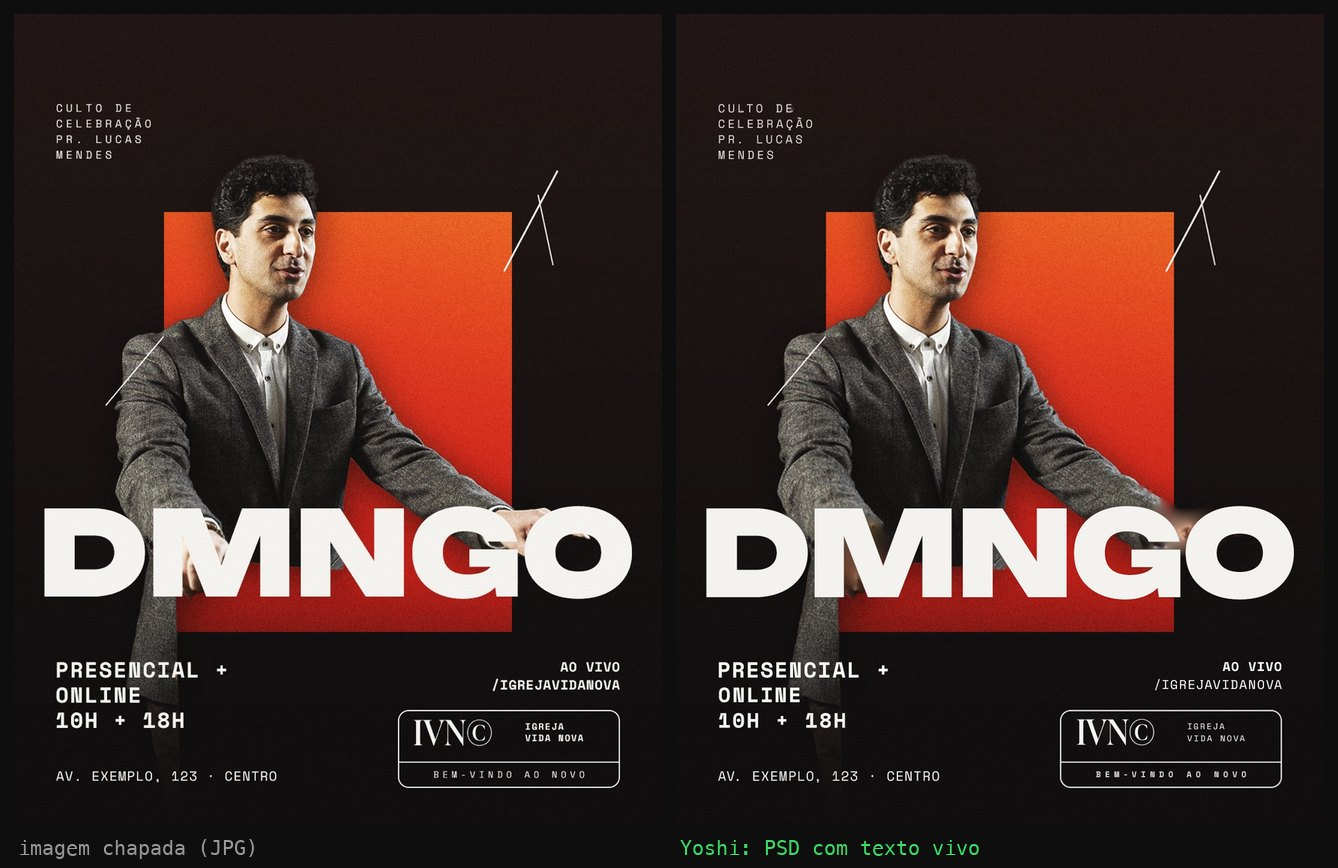
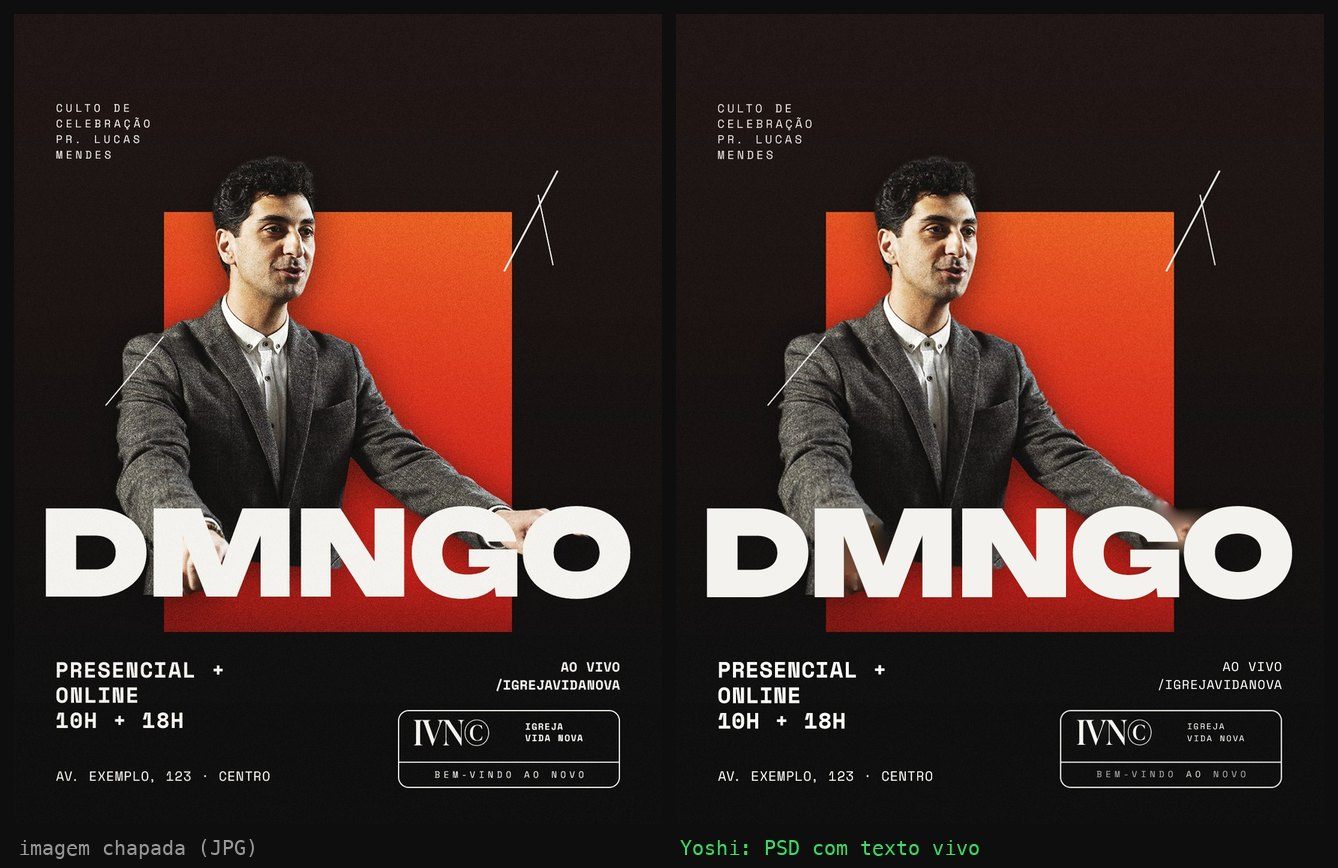
Exemplo igreja-moderna: pregador cortado abaixo das mãos (sem o paletó solto); Y.cortarAbaixo
reconstruir: junta pedaços da mesma linha separados pelo OCR ("PRESENCIAL" + "+");
previews do README refeitos com a arte corrigida.

diff --git a/scripts/jsx/yoshi.jsx b/scripts/jsx/yoshi.jsx
@@ -133,6 +133,18 @@ var Y = (function () {
   };
   // "Pessoa na frente do título": duplica a foto já recortada para outro grupo (acima do texto).
   Y.duplicarPara = function (l, nome, g) { var c = l.duplicate(); c.name = nome; return entra(c, g); };
+  // Corta seco a camada abaixo de y (na máscara): recorte de pessoa atrás de púlpito/mesa leva o resto do corpo
+  // sem o móvel e sobra um pedaço solto. Ponha y logo abaixo das mãos, de preferência escondido atrás do título.
+  Y.cortarAbaixo = function (l, y, x1, x2) {
+    var W_ = D.width.as("px"), H_ = D.height.as("px"); x1 = x1 || 0; x2 = x2 || W_;
+    D.activeLayer = l; var tem = false;
+    try { var r0 = new ActionReference(); r0.putEnumerated(s("layer"), s("ordinal"), s("targetEnum")); tem = executeActionGet(r0).getBoolean(s("hasUserMask")); } catch (e) {}
+    if (!tem) { var m = new ActionDescriptor(); m.putClass(s("new"), s("channel")); var r = new ActionReference(); r.putEnumerated(s("channel"), s("channel"), s("mask")); m.putReference(s("at"), r); m.putEnumerated(s("using"), s("userMaskEnabled"), s("revealAll")); executeAction(s("make"), m, DialogModes.NO); }
+    var a = new ActionDescriptor(), rm = new ActionReference(); rm.putEnumerated(s("channel"), s("channel"), s("mask")); a.putReference(s("null"), rm); a.putBoolean(s("makeVisible"), false); executeAction(s("select"), a, DialogModes.NO);
+    D.selection.select([[x1, y], [x2, y], [x2, H_], [x1, H_]]); D.selection.fill(rgb("#000000")); D.selection.deselect();
+    var b2 = new ActionDescriptor(), rc = new ActionReference(); rc.putEnumerated(s("channel"), s("channel"), s("RGB")); b2.putReference(s("null"), rc); executeAction(s("select"), b2, DialogModes.NO);
+    return l;
+  };
   // Esconde a parte de baixo de uma camada com máscara de degradê (para a foto "sumir" no fundo). de/ate em px de y.
   Y.sumirEmbaixo = function (l, yInicio, yFim) {
     D.activeLayer = l;

diff --git a/presets/igreja-moderna/exemplo/arte.jsx b/presets/igreja-moderna/exemplo/arte.jsx
@@ -2,6 +2,7 @@
 // Variáveis: FOTO (pessoa, de preferência meio corpo ou corpo inteiro), SAIDA (pasta).
 // python3 scripts/montar.py presets/igreja-moderna/exemplo/arte.jsx FOTO=/caminho/pastor.jpg SAIDA=/pasta
 var W = 1080, H = 1350;
+if (typeof CORTE === "undefined") var CORTE = "";
 Y.doc(W, H, "igreja-moderna-dmngo");
 
 var gFundo = Y.grupo("FUNDO");
@@ -16,6 +17,7 @@ Y.recorte(gMold.layers[0]);
 var gPes = Y.grupo("PESSOAS");
 var p = Y.colocar(FOTO, "PREGADOR", gPes, { x: 40, y: -150, w: 1000, h: 1500 }, "altura", "topo");
 Y.recortar(p);
+Y.cortarAbaixo(p, CORTE ? Number(CORTE) : 968);   // foto atrás de púlpito: o recorte deixava o paletó solto à esquerda; corta abaixo das mãos, atrás do título
 Y.efeitos(p, { sombra: { cor: "#000000", op: 55, dist: 0, desfoque: 70 } });
 
 var gDeg = Y.grupo("DEGRADE");

diff --git a/scripts/reconstruir.py b/scripts/reconstruir.py
@@ -253,6 +253,24 @@ def ui_instagram(W, H):
             [round(W * 0.40), round(H * 0.965), round(W * 0.60), H]]
 
 
+def juntar_mesma_linha(linhas):
+    """O Vision às vezes separa um pedaço da linha ("PRESENCIAL" e "+" a 0 px): mesma altura de meio, vão menor que
+    a altura da letra -> uma linha só (senão o "+" vira camada própria e o bloco de baixo perde a 1ª linha certa)."""
+    out = []
+    for l in sorted(linhas, key=lambda o: (o["y"], o["x"])):
+        p_ = next((o for o in out if abs((o["y"] + o["h"] / 2) - (l["y"] + l["h"] / 2)) < 0.35 * max(o["h"], l["h"])
+                   and 0 <= l["x"] - (o["x"] + o["w"]) < 0.8 * max(o["h"], l["h"]) and abs(o.get("angulo", 0) - l.get("angulo", 0)) < 2), None)
+        if p_:
+            off = len(p_["texto"]) + 1   # índice de caractere das palavras do pedaço passa a contar do início da linha juntada
+            l = dict(l, palavras=[dict(w_, i=w_.get("i", 0) + off) for w_ in (l.get("palavras") or [])])
+            p_["texto"] = p_["texto"] + " " + l["texto"]; x2 = l["x"] + l["w"]; y1 = min(p_["y"], l["y"]); y2 = max(p_["y"] + p_["h"], l["y"] + l["h"])
+            p_["w"] = x2 - p_["x"]; p_["y"] = y1; p_["h"] = y2 - y1; p_["conf"] = min(p_["conf"], l["conf"])
+            p_["palavras"] = (p_.get("palavras") or []) + (l.get("palavras") or [])
+        else:
+            out.append(dict(l))
+    return sorted(out, key=lambda o: (o["y"], o["x"]))
+
+
 def juntar_blocos(linhas, k, pequeno):
     """Linhas PEQUENAS empilhadas e alinhadas à esquerda (\"Arraste / para o / lado\") viram um bloco só (\r entre
     elas): medidas separadas a 17 px uma da outra se atrapalham no ciclo."""
@@ -337,7 +355,7 @@ def main():
     ap.add_argument("--nota-min", type=float, default=0.35, help="abaixo disso a linha fica como imagem (logo)")
     a = ap.parse_args(); os.makedirs(a.pasta, exist_ok=True)
     im = Image.open(a.ref).convert("RGB"); W0, H0 = im.size; k = a.largura / W0; H = round(H0 * k)
-    linhas = juntar_blocos(json.loads(roda(os.path.join(AQUI, "swift", "ocr"), a.ref)), k, a.pequeno)
+    linhas = juntar_blocos(juntar_mesma_linha(json.loads(roda(os.path.join(AQUI, "swift", "ocr"), a.ref))), k, a.pequeno)
     itens, camadas, caixas_mt = [], [], []
     # passada prévia: caixas marca-texto de TODAS as linhas (a cor da caixa vira fundo em qualquer linha vizinha)
     todas_caixas = []

diff --git a/README.md b/README.md
@@ -103,7 +103,7 @@ O Yoshi foi treinado remontando posts reais pixel a pixel. As ferramentas que sa
 
 <img src="docs/previews/reconstrucao.jpg" width="720" alt="Imagem chapada à esquerda, PSD reconstruído pelo Yoshi à direita">
 
-*À esquerda, o JPG achatado. À direita, o PSD que o Yoshi reconstruiu sozinho: fundo limpo, 10 camadas de texto vivo com a fonte reconhecida (Unbounded, Space Mono, Ivy Presto) e posição conferida em até 1 px. Único ajuste manual: `--corrigir "/ IGREJA=/IGREJA;•=·"` para dois erros de leitura do OCR. Limite visível: a ponta dos dedos sobre o "G" ficou borrada pelo preenchimento do fundo.*
+*À esquerda, o JPG achatado. À direita, o PSD que o Yoshi reconstruiu sozinho: fundo limpo, 9 camadas de texto vivo com a fonte reconhecida (Unbounded, Space Mono, Ivy Presto) e posição conferida em até 1 px. Único ajuste manual: `--corrigir "/ IGREJA=/IGREJA;•=·;IVNC=IVN©"` para três erros de leitura do OCR. Limite visível: a ponta dos dedos sobre o "G" ficou borrada pelo preenchimento do fundo.*
 
 - **Imagem chapada -> PSD editável** (`reconstruir.py`): OCR nativo do macOS acha cada linha e palavra; o fundo vira "fundo limpo" (texto apagado com preenchimento sensível ao conteúdo, sem crédito); cada linha volta como texto vivo com a fonte reconhecida, negrito e cor de destaque detectados por palavra, caixa marca-texto como forma editável, interface do Instagram (seta, bolinhas) removida.
 - **Ciclo idêntico** (`ciclo.py`): mede a referência, monta, mede o próprio resultado com a mesma régua e corrige até o erro ficar em 1 px.

diff --git a/docs/diario.md b/docs/diario.md
@@ -149,3 +149,5 @@ Cada entrada: técnica, como faz no motor, o que deu errado e como ficou. Mais n
   2. **Texto pequeno sem `--fonte-texto` e sem candidata ficava com fonte vazia**, e o Photoshop dava "Argumento Ilegal". Correção: a linha herda a fonte mais usada no post.
   3. **Bloco com tracking largo (créditos espaçados) saía grande e apertado,** porque o tamanho vinha da largura. Correção: o tamanho vem do "H" da 1ª linha (`alvo.ch1`) e a largura vira tracking. A trava de espaçamento não troca a fonte nesses blocos (tracking 300 ali é do design).
 - Resultado: 10 de 10 camadas com erro <= 1 px. A ponta dos dedos sobre o "G" ficou borrada (o preenchimento do fundo invade a mão); fica registrado como limite.
+- Gabriel apontou: no exemplo, o pregador ficava "pela metade", com o resto do paletó solto à esquerda. A foto é atrás de um púlpito, e o Selecionar assunto tira o púlpito mas deixa o corpo até a base. Correção: `Y.cortarAbaixo(camada, y)` corta seco na máscara logo abaixo das mãos, numa linha escondida atrás do título (968 no exemplo). Regra: pessoa atrás de móvel (púlpito, mesa, balcão) sempre leva corte abaixo das mãos.
+- Na arte nova, o OCR separou "PRESENCIAL" e "+". Correção: `juntar_mesma_linha` junta pedaços na mesma altura com vão menor que a altura da letra, e reindexa as palavras.
